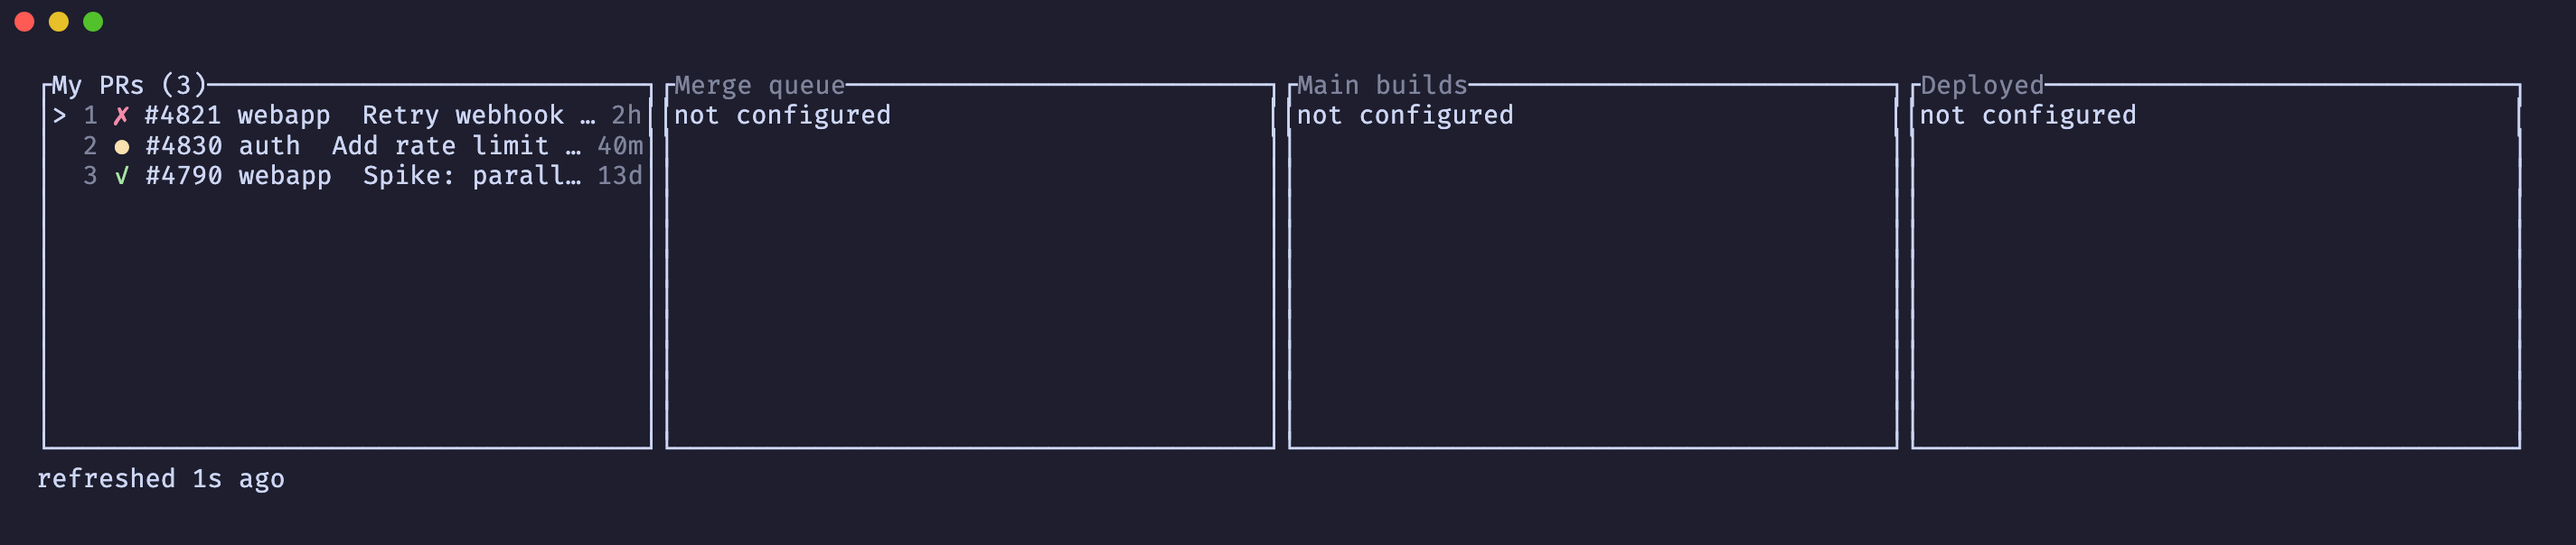
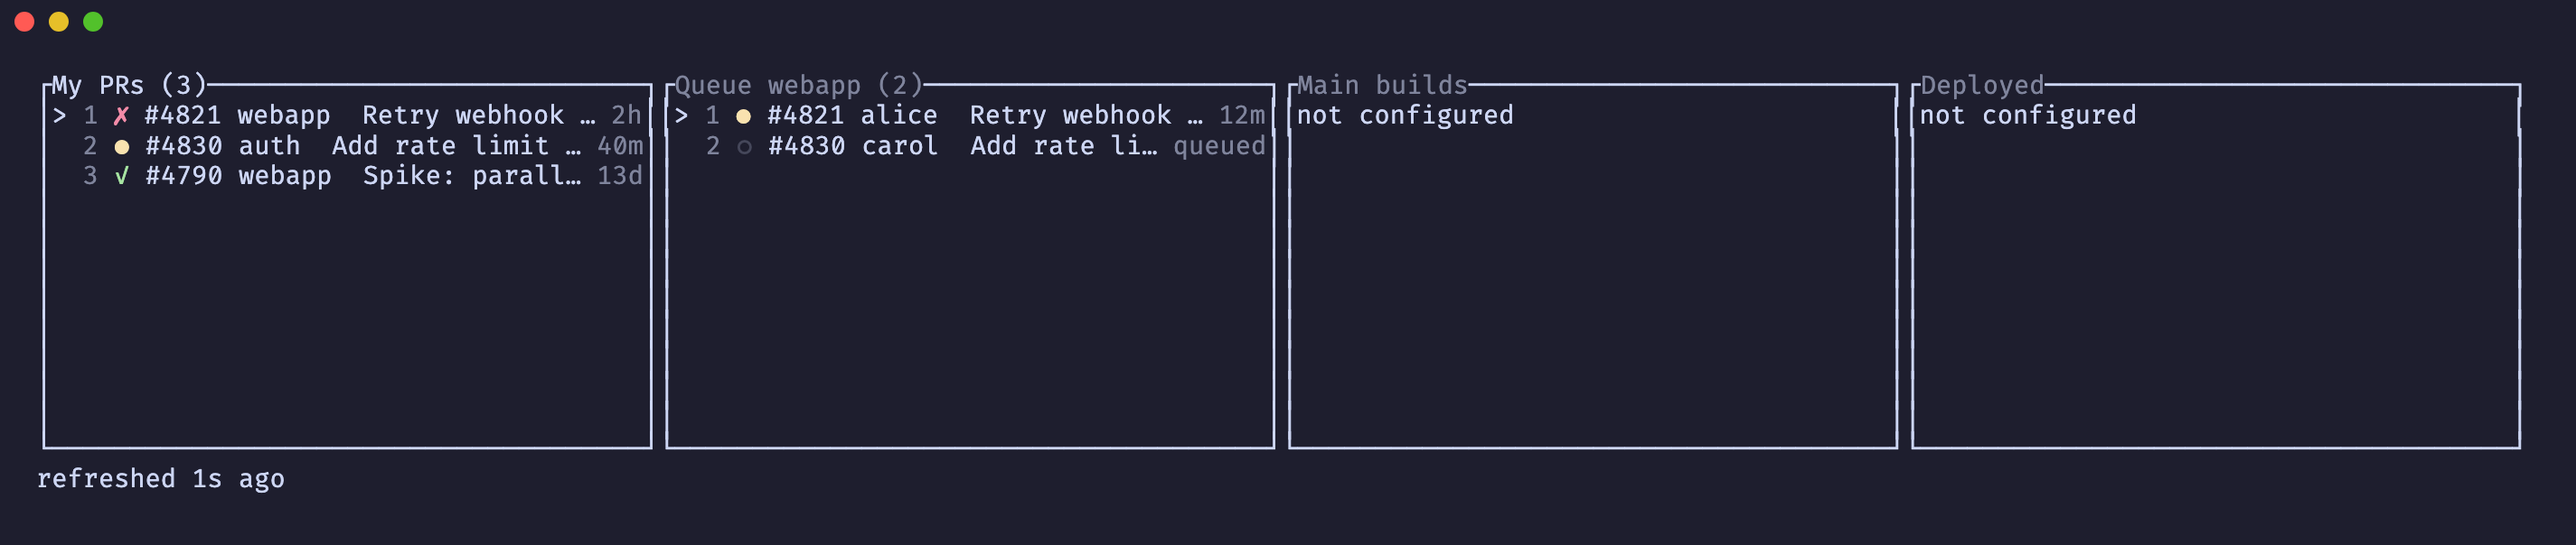
docs: merge queue column in README with screenshot; AGENTS.md data sources and column recipe; phase 2 outcome; v0.2.0

Changed region(s): [[0.2498, 0.149, 0.4996, 0.298]]

diff --git a/tests/snapshots.rs b/tests/snapshots.rs
@@ -5,7 +5,7 @@ use conveyor::model::prs::{
     Check, CheckConclusion, CheckState, MergeState, PullRequest, ReviewDecision,
 };
 use ratatui::crossterm::event::KeyCode;
-use support::{Harness, failed, key, pr, prs};
+use support::{Harness, entry, failed, key, pr, prs, queue};
 
 fn sample() -> Vec<PullRequest> {
     let mut failing = pr(4821, "Retry webhook delivery with backoff");
@@ -36,10 +36,39 @@ fn sample() -> Vec<PullRequest> {
     vec![failing, pending, draft]
 }
 
+fn queue_sample() -> Vec<conveyor::model::queue::QueueEntry> {
+    let mut first = entry(1, 4821, "alice", "Retry webhook delivery with backoff");
+    first.state = conveyor::model::queue::QueueState::AwaitingChecks;
+    first.checks = CheckState::Pending;
+    first.eta = Some(std::time::Duration::from_secs(12 * 60));
+    first.run_url = Some("https://github.com/acme/webapp/actions/runs/1".to_string());
+    let mut second = entry(2, 4830, "carol", "Add rate limit headers to the API");
+    second.jump = true;
+    vec![first, second]
+}
+
 #[test]
 fn list_layout() {
     let mut h = Harness::new();
-    h.run(vec![prs(sample()), key(KeyCode::Char('j'))]).unwrap();
+    h.run(vec![
+        prs(sample()),
+        queue(queue_sample()),
+        key(KeyCode::Char('j')),
+    ])
+    .unwrap();
+    insta::assert_snapshot!(h.screen());
+}
+
+#[test]
+fn queue_details_layout() {
+    let mut h = Harness::with_size(160, 20);
+    h.run(vec![
+        prs(sample()),
+        queue(queue_sample()),
+        key(KeyCode::Char('l')),
+        key(KeyCode::Char('p')),
+    ])
+    .unwrap();
     insta::assert_snapshot!(h.screen());
 }
 

diff --git a/AGENTS.md b/AGENTS.md
@@ -26,10 +26,11 @@ check is skipped where the file is absent, so CI does not enforce it).
 src/main.rs      CLI dispatch, config load, wiring
 src/cli.rs       `conveyor` (TUI) | `config` | `--help` | `--version`; hand-rolled, no clap
 src/config.rs    Config (serde + toml, deny_unknown_fields), XDG path, `CONVEYOR_CONFIG` override
-src/github.rs    Github trait (`graphql(query, vars)`), CliGh spawns `gh api graphql`, error mapping
-src/fetch.rs     fetch_prs(gh, config): the search query from `src/queries/prs.graphql` → parsed rows
+src/github.rs    Github trait (`graphql`, `rest`, `current_repo`), CliGh spawns `gh api …` / `gh repo view`, error mapping
+src/fetch.rs     repos() (config or cwd), fetch_prs, fetch_queue (+ merge-group runs via REST); queries in `src/queries/`
 src/model/prs.rs PullRequest, CheckState, Check, ReviewDecision, MergeState; lenient `parse` of gh JSON
-src/app.rs       App state (Mode::{Normal, Filter, Help}, focus, details), Input::{Key, Data, Tick}, run()
+src/model/queue.rs Queue, QueueEntry, QueueState, MergeGroupRun; `parse`, `parse_merge_group_runs`, `attach_runs`
+src/app.rs       Column<T: Row> (state, error, list, filter), App (one Column per stage, focus, Mode), Input::{Key, Data, Tick}, run()
 src/ui.rs        rendering: 4 columns or tabs below `4 × ui.min_column_width`; KEYS drives the help view
 src/open.rs      Opener trait; SystemOpener (`open`/`xdg-open`, `pbcopy`/`xclip`)
 src/text.rs      truncate/pad_right with `…`, age()
@@ -51,7 +52,14 @@ tests/           outside-in: `tests/cli.rs` runs the real binary; TUI tests driv
   `contexts` is a union of `CheckRun` (`name status conclusion detailsUrl`) and
   `StatusContext` (`context state targetUrl`). `mergeStateStatus` is often `UNKNOWN`
   (GitHub computes it lazily): show it as `—`, never as an error.
-- **Merge queue**: `repository.mergeQueue.entries` (`position state enqueuedAt
+- **Merge queue**: one query per repo (`src/queries/queue.graphql`) plus one REST call
+  `repos/{r}/actions/runs?event=merge_group&per_page=30`; runs are matched to entries by the
+  `pr-<N>-` segment of `head_branch` and the newest run wins. The REST call is optional: a
+  failure leaves the entries with the rollup state from GraphQL. A repository without a queue
+  (`mergeQueue: null`) is a column error, not a crash. `tests/fixtures/queue.json` is
+  **synthetic** (built from the schema; no public repo with a queue was at hand) and
+  `queue-empty.json` is a real empty response.
+- **Merge queue schema**: `repository.mergeQueue.entries` (`position state enqueuedAt
   estimatedTimeToMerge solo jump headCommit{oid} pullRequest{number title author}`).
   Entry `state` ∈ AWAITING_CHECKS | LOCKED | MERGEABLE | QUEUED | UNMERGEABLE. The
   merge-group workflow runs (`gh run list --event merge_group`) live on branches
@@ -80,6 +88,12 @@ tests/           outside-in: `tests/cli.rs` runs the real binary; TUI tests driv
 - **`gh` never inherits the terminal.** `CliGh::run` gives it a null stdin, so a `gh` that
   wants to prompt (no auth, `HOME` pointing elsewhere) fails fast instead of hanging the
   fetch thread behind `fetching…`.
+- **Keys act on the focused column.** `App::with_focused` dispatches navigation to the
+  `Column` of `app.focus`; `Enter`/`y` use `selected_target`. Adding a stage means a new
+  `Column<T>` field, a `Row` impl, a `Rows` variant, and arms in `receive`, `focused_*`,
+  `selected_target`, `with_focused`, `column_title`, `draw_column` and `draw_details`.
+- **The `gh` shim in e2e and screenshots dispatches on the query text.** Match the queue query
+  on `repository(owner`, not `mergeQueue`: the PR query also contains `mergeQueueEntry`.
 - **Colors** come from the ANSI palette so terminal themes apply. Do not hardcode hex.
 
 ## Testing traps hit so far
@@ -97,7 +111,7 @@ tests/           outside-in: `tests/cli.rs` runs the real binary; TUI tests driv
 
 ## Documentation rule
 
-`README.md` embeds `docs/columns.png`, `docs/details.png` and `docs/tabs.png`. After any
+`README.md` embeds `docs/columns.png`, `docs/details.png`, `docs/queue.png` and `docs/tabs.png`. After any
 visible layout change run `scripts/screenshots.sh` (needs `brew install
 charmbracelet/tap/freeze`, Google Chrome, and the FiraCode Nerd Font in `~/Library/Fonts`) and
 commit the new images. Freeze lays out an SVG with the font embedded; headless Chrome

diff --git a/README.md b/README.md
@@ -4,21 +4,33 @@ A terminal view of where your changes are: open pull requests, the merge
 queue, the last main builds, and what each environment runs. One column per
 stage, one repo, one screen.
 
-Status: phase 1 (My PRs column). The other three columns are placeholders.
+Status: phase 2 (My PRs and Merge queue columns). Main builds and Deployed are placeholders.
 
 ![columns](docs/columns.png)
+
+- **My PRs**: the `[prs] query` search. Row: number, check glyph, repo, title, `⇥n` when the
+  PR sits at position n of a merge queue, age.
+- **Merge queue**: the queue of the first `[[repo]]`, or of the repository checked out in the
+  current directory. Row: position, check glyph (from the merge-group run when one exists),
+  number, author, title, ETA or state. A repo without a merge queue shows the error in place.
 
 `p` opens a details pane for the selected row: branch, diff size, review and merge state,
 checks with failures first.
 
 ![details](docs/details.png)
 
+On a queue entry it shows position, state, ETA, flags, enqueue age, head sha and the
+merge-group run.
+
+![queue details](docs/queue.png)
+
 Narrow terminals collapse the columns into tabs:
 
 ![tabs](docs/tabs.png)
 
 Keys: `j/k` move, `1-9` jump to a row, `h/l`/`Tab` focus a column, `Enter`/`o` open in the
-browser, `y` copy the URL, `p` details pane, `/` filter, `r` refresh, `?` help, `q` quit.
+browser, `y` copy the URL, `p` details pane, `/` filter, `r` refresh the focused column, `?` help,
+`q` quit. Keys act on the focused column.
 Below `4 × min_column_width` columns the four columns collapse into tabs (`h/l` switch). A failed fetch keeps
 the last rows, marks the column `⚠` and shows the error in the footer; the app never exits on
 it.
@@ -78,6 +90,12 @@ refresh_secs = 60
 [ui]
 min_column_width = 36
 details_percent = 40
+
+[[repo]]                      # optional; default is the repository of the current directory
+name = "owner/name"
+main_workflow = "CI/CD"       # phase 3
+builds = 10                   # phase 3
+refresh_secs = 30
 ```
 
 ## Develop

diff --git a/PLAN.md b/PLAN.md
@@ -263,6 +263,22 @@ Phase 1 exit: retro (see checkpoints), `AGENTS.md` updated, v0.1.0 tagged, plan 
   empty capture from today for the empty state.
 - A PR that is both yours and queued: the PRs column shows a `⇥ #pos` marker from `mergeQueueEntry`.
 
+### Phase 2 outcome (2026-09-10)
+
+- Shipped on `phase-2-merge-queue` (PR #3): `[[repo]]` config with cwd fallback via `gh repo
+  view`; queue model + synthetic fixture; generic `Column<T: Row>` refactor (keys act on the
+  focused column, per-column error/fetched_at/filter); queue rows, details, failures; `⇥n`
+  marker on own queued PRs; merge-group run attached per entry through the REST runs API;
+  per-stage fetch threads with refresh channels; e2e with a dispatching `gh` shim; queue
+  snapshots and screenshot.
+- Live check: this repo (no queue) shows the error in place; the employer repo showed an empty
+  queue at the time, so the populated rendering was only verified through the synthetic
+  fixture. First real queue sighting should be compared against the GitHub queue page.
+- Process: `ship.sh` opened the draft PR on the first push (title casing fixed for BSD `sed`);
+  tasks 5–7 landed in one commit (three small behaviours), a deviation from one-commit-per-task.
+- Retro candidates: main builds now feed the queue's "n behind" idea; `refresh_secs` per
+  repo is read but only the first repo is watched; `Tick` still only drives ages.
+
 ## Phase 3 — Main builds column
 
 - Rows = last N (`repo.builds`, default 10) runs of `main_workflow` on `main` with
